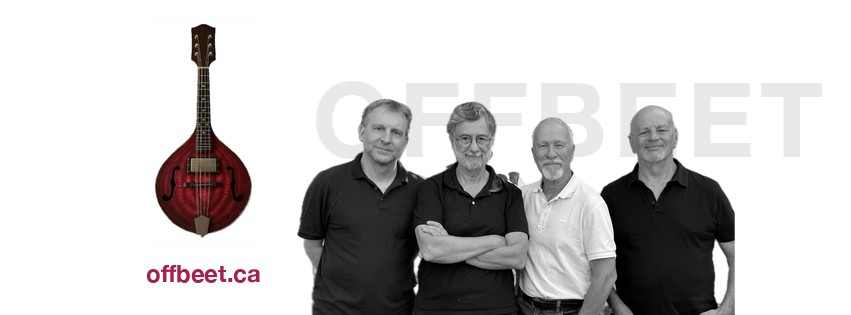
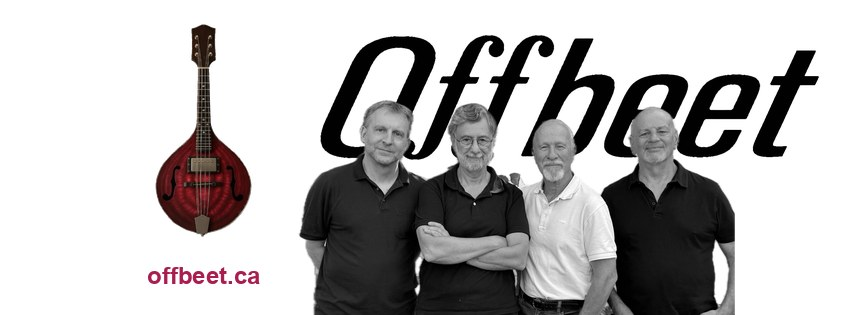
Put the black Offbeet wordmark behind the band on the Facebook cover
Replaces the ghosted grey OFFBEET caps with the new script wordmark in
black, raised so it clears the heads. Adds the build script so the cover
is regenerated rather than retouched.

Claude-Session: https://claude.ai/code/session_01Y3CWaHMVrpbPnu3agCjrTD

diff --git a/social/make-facebook-cover.py b/social/make-facebook-cover.py
@@ -1,0 +1,45 @@
+#!/usr/bin/env python3
+"""Rebuild the Facebook cover (851x315).
+
+Layout, left to right: the beet mandolin over offbeet.ca in beet crimson,
+then the band cutout with the Offbeet wordmark in black behind it.
+Everything meaningful sits inside Facebook's 640px mobile safe area
+(x 105-745). Run from the repo root: python3 social/make-facebook-cover.py
+"""
+from PIL import Image, ImageDraw, ImageFont
+
+W, H = 851, 315
+BEET = (169, 30, 79)
+
+cover = Image.new("RGB", (W, H), "white")
+
+# --- wordmark in black, behind the band ---
+word = Image.open("assets/wordmark.png")
+w_w = 500
+word = word.resize((w_w, round(word.height * w_w / word.width)), Image.LANCZOS)
+cover.paste(word, (320, 34), word)
+
+# --- band cutout, bottom-cropped by the canvas ---
+band = Image.open("social/band-cutout.png")
+band = band.crop(band.getbbox())
+b_w = 438
+band = band.resize((b_w, round(band.height * b_w / band.width)), Image.LANCZOS)
+cover.paste(band, (297, 99), band)
+
+# --- mandolin ---
+mando = Image.open("assets/beet-guitar.png")
+m_h = 213
+mando = mando.resize((round(mando.width * m_h / mando.height), m_h), Image.LANCZOS)
+mando_x = 203 - mando.width // 2
+cover.paste(mando, (mando_x, 24), mando)
+
+# --- offbeet.ca under the mandolin ---
+draw = ImageDraw.Draw(cover)
+font = ImageFont.truetype("/System/Library/Fonts/Supplemental/Arial Bold.ttf", 24)
+label = "offbeet.ca"
+tw = draw.textbbox((0, 0), label, font=font)[2]
+draw.text((203 - tw // 2, 262), label, font=font, fill=BEET)
+
+cover.save("social/facebook-cover.png")
+cover.save("social/facebook-cover.jpg", quality=88, optimize=True)
+print("wrote social/facebook-cover.png and .jpg")

diff --git a/CLAUDE.md b/CLAUDE.md
@@ -49,6 +49,16 @@ says so, so the two steps go together. Reverse both when the next show goes up.
 - Member photos: `members/<firstname>.jpg`, square, B&W.
 - `assets/offbeet01.png` is a local source file, gitignored.
 
+### The Facebook cover
+
+`social/make-facebook-cover.py` builds `social/facebook-cover.png`/`.jpg`
+(851x315) from `social/band-cutout.png`, `assets/beet-guitar.png`, and
+`assets/wordmark.png` — edit the script and re-run it rather than retouching the
+image. The wordmark sits behind the band in black (it was ghosted grey caps
+until August 2026); it rides above the heads so the letterforms don't disappear
+into the dark shirts. Its tail runs past Facebook's 640px mobile safe area
+(x 105-745) by design — nothing essential lives out there.
+
 ### The header lockup
 
 The nav brand and hero banner share one `.lockup` (mandolin + wordmark beside
